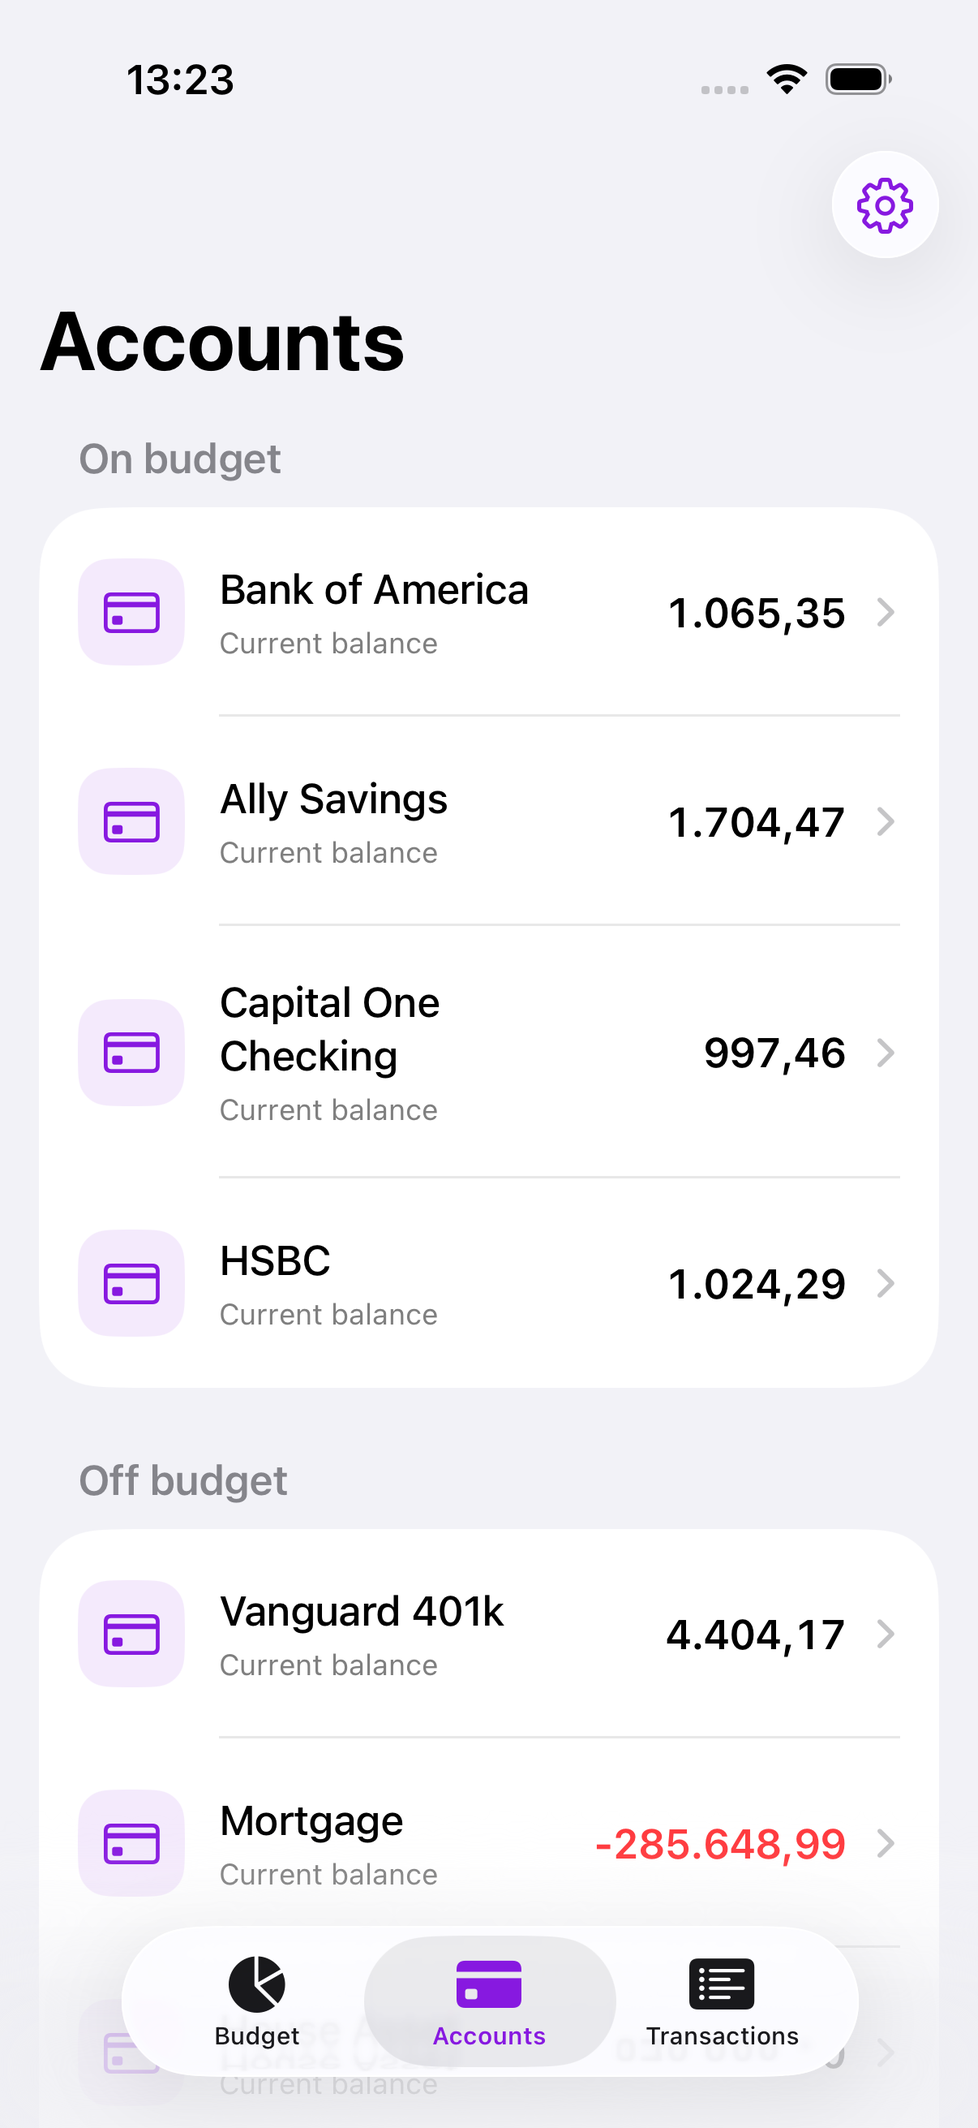
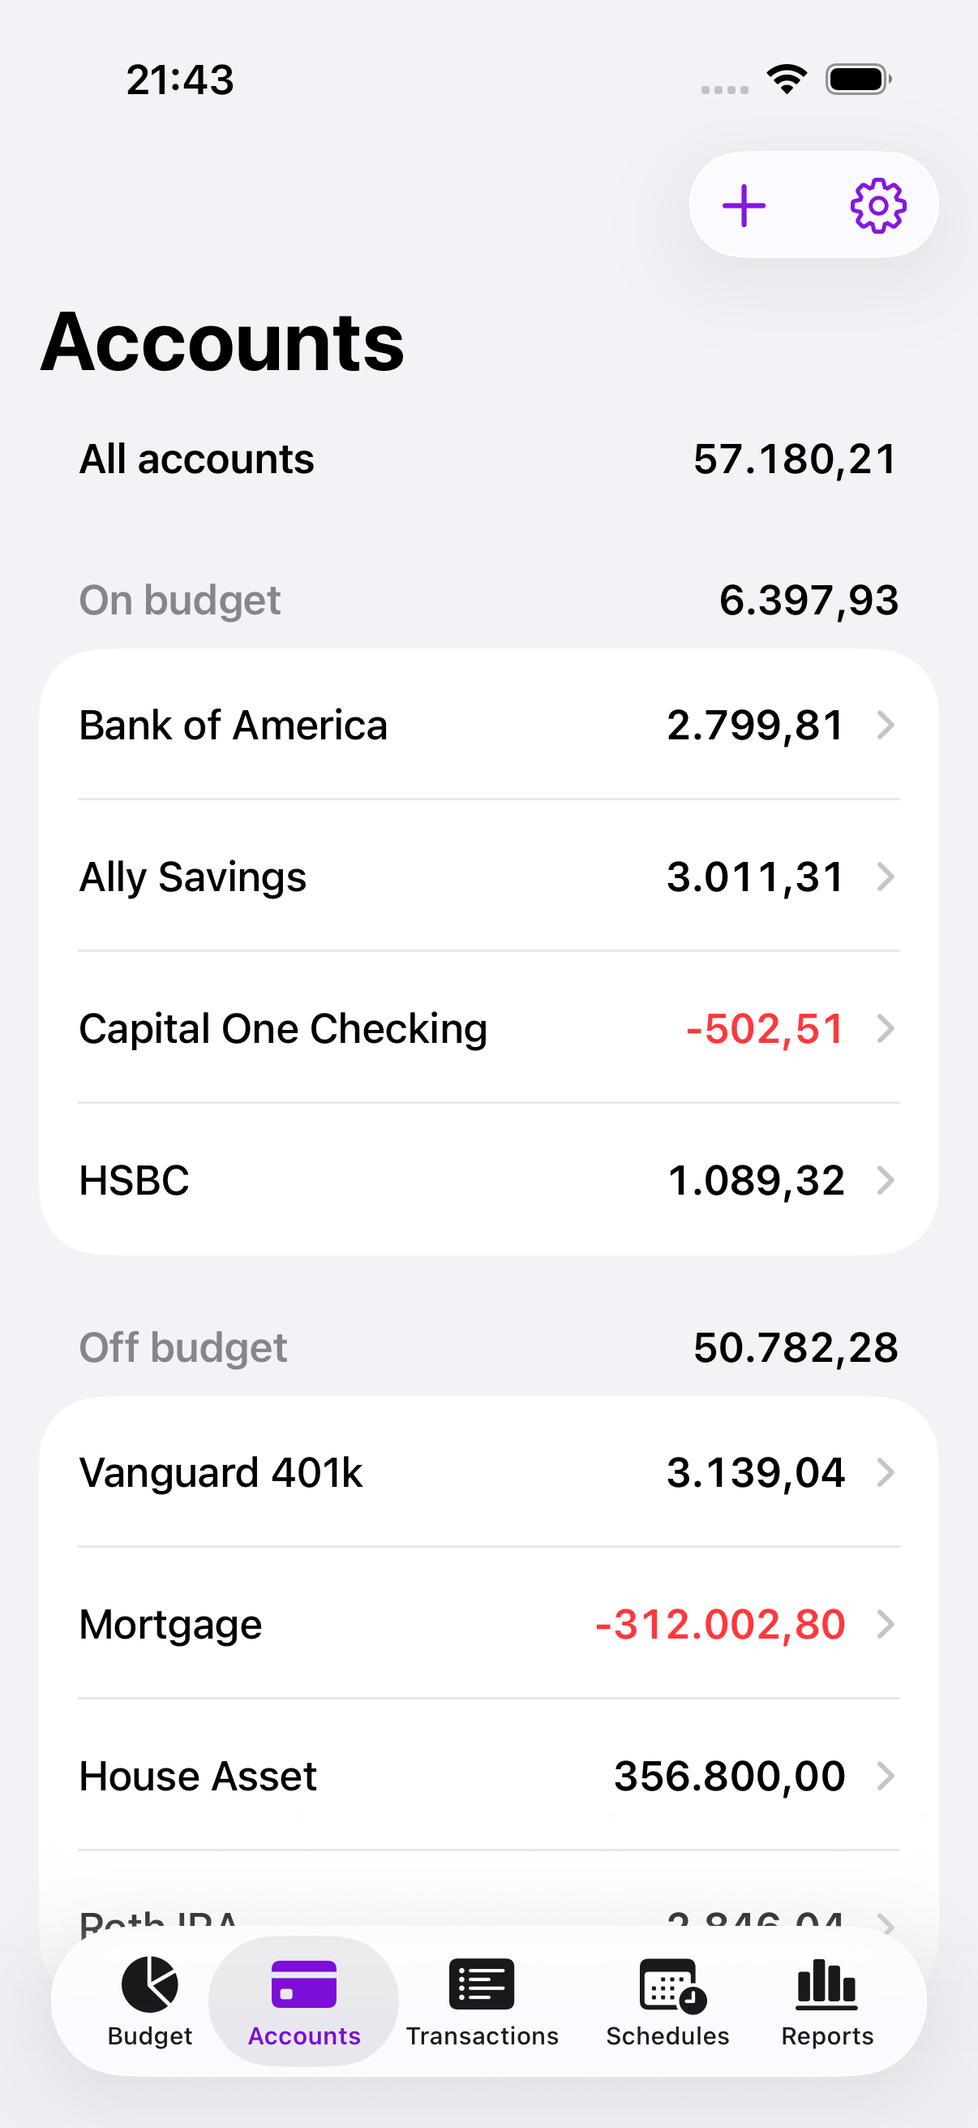
Calm the register, total the accounts, and lift purple in dark mode
- Registers and other transaction lists show spending in the text color
  and income in green, as Actual's mobile register does; red is left for
  overspending. Upcoming amounts are secondary.
- Drop the leading direction badge; transfers and splits keep a small
  glyph beside the category. The cleared toggle is a smaller glyph,
  green when cleared.
- Account rows drop the icon tile and "Current balance" filler; section
  headers show totals, with All accounts first, as in Actual.
- Actual purple uses Actual's dark-theme purple400 in dark appearance.

Claude-Session: https://claude.ai/code/session_01JMHr96GVFA3p8ctKBKr87m

diff --git a/Native/Views/TransactionsView.swift b/Native/Views/TransactionsView.swift
@@ -185,10 +185,6 @@ struct ScheduledTransactionRow: View {
     let currency: String
     var body: some View {
         HStack(alignment: .center, spacing: 12) {
-            Image(systemName: "calendar")
-                .font(.subheadline.weight(.semibold)).foregroundStyle(.secondary)
-                .frame(width: 36, height: 36)
-                .background(ActualTheme.background, in: Circle())
             VStack(alignment: .leading, spacing: 5) {
                 Text(scheduled.title).font(.body.weight(.medium)).foregroundStyle(.primary)
                 HStack(spacing: 6) {
@@ -198,8 +194,9 @@ struct ScheduledTransactionRow: View {
                 }.font(.caption).foregroundStyle(.secondary)
             }
             Spacer(minLength: 8)
-            MoneyText(value: scheduled.amount, currency: currency, positiveColor: .green)
-                .font(.body.weight(.semibold)).opacity(0.7)
+            // Actual's register shows previews in light text.
+            MoneyText(value: scheduled.amount, currency: currency, positiveColor: .green, negativeColor: .secondary)
+                .font(.body.weight(.semibold))
         }.padding(.vertical, 6).contentShape(Rectangle())
             .accessibilityElement(children: .combine)
             .accessibilityHint("Post or skip this scheduled transaction")
@@ -211,19 +208,19 @@ struct TransactionRow: View {
     let currency: String
     var body: some View {
         HStack(alignment: .center, spacing: 12) {
-            Image(systemName: transaction.isTransfer ? "arrow.left.arrow.right" : transaction.isParent ? "square.split.2x2" : transaction.amount < 0 ? "arrow.up.right" : "arrow.down.left")
-                .font(.subheadline.weight(.semibold))
-                .foregroundStyle(transaction.amount < 0 ? Color.secondary : ActualTheme.purple)
-                .frame(width: 36, height: 36)
-                .background(ActualTheme.background, in: Circle())
             VStack(alignment: .leading, spacing: 5) {
                 Text(transaction.title).font(.body.weight(.medium)).foregroundStyle(.primary)
-                Text(transaction.canEdit ? transaction.detail : "\(transaction.detail) · view only")
-                    .font(.caption).foregroundStyle(.secondary)
+                // As in Actual's mobile register, transfers and splits are marked beside the category.
+                // The title and detail already say so to VoiceOver.
+                HStack(spacing: 4) {
+                    if transaction.isTransfer { Image(systemName: "arrow.left.arrow.right").accessibilityHidden(true) }
+                    else if transaction.isParent { Image(systemName: "square.split.2x2").accessibilityHidden(true) }
+                    Text(transaction.canEdit ? transaction.detail : "\(transaction.detail) · view only")
+                }.font(.caption).foregroundStyle(.secondary)
                 if let notes = transaction.notes, !notes.isEmpty { NotesText(notes: notes).font(.caption).foregroundStyle(.secondary).lineLimit(1) }
             }
             Spacer(minLength: 8)
-            MoneyText(value: transaction.amount, currency: currency, positiveColor: .green).font(.body.weight(.semibold))
+            MoneyText.transaction(transaction.amount, currency: currency).font(.body.weight(.semibold))
         }.padding(.vertical, 6).contentShape(Rectangle())
             .accessibilityElement(children: .combine)
     }

diff --git a/Native/Views/AccountsView.swift b/Native/Views/AccountsView.swift
@@ -12,6 +12,12 @@ struct AccountsView: View {
                     if overview.accounts.isEmpty {
                         ContentUnavailableView("No accounts yet", systemImage: "creditcard", description: Text("Add an account with + to track its balance and transactions."))
                     }
+                    else {
+                        // Actual's mobile accounts page leads with the total of all open accounts.
+                        Section {} header: {
+                            totalHeader("All accounts", accounts: overview.openAccounts).font(.headline).foregroundStyle(.primary)
+                        }
+                    }
                     accountSection("On budget", accounts: overview.accounts.filter { !$0.offbudget && !$0.closed })
                     accountSection("Off budget", accounts: overview.accounts.filter { $0.offbudget && !$0.closed })
                     accountSection("Closed", accounts: overview.accounts.filter(\.closed))
@@ -32,16 +38,12 @@ struct AccountsView: View {
 
     @ViewBuilder private func accountSection(_ title: String, accounts: [Account]) -> some View {
         if !accounts.isEmpty {
-            Section(title) {
+            Section {
                 ForEach(accounts) { account in
                     NavigationLink {
                         TransactionsView(accountID: account.id, accountName: account.name, embedsNavigation: false)
                     } label: {
                         HStack(spacing: 14) {
-                            Image(systemName: account.closed ? "archivebox" : "creditcard")
-                                .font(.title3).foregroundStyle(ActualTheme.purple)
-                                .frame(width: 44, height: 44)
-                                .background(ActualTheme.purple.opacity(0.09), in: RoundedRectangle(cornerRadius: 13))
                             VStack(alignment: .leading, spacing: 5) {
                                 Text(account.name).font(.body.weight(.medium))
                                 if model.syncingAccountIDs.contains(account.id) {
@@ -56,8 +58,6 @@ struct AccountsView: View {
                                     } else {
                                         Text("Bank connected · pull to refresh").font(.caption).foregroundStyle(.secondary)
                                     }
-                                } else {
-                                    Text(account.closed ? "Closed account" : "Current balance").font(.caption).foregroundStyle(.secondary)
                                 }
                             }
                             Spacer(minLength: 8)
@@ -65,7 +65,18 @@ struct AccountsView: View {
                         }.padding(.vertical, 6)
                     }
                 }
+            } header: {
+                totalHeader(title, accounts: accounts)
             }
+        }
+    }
+
+    /// A section title with its accounts' total balance, as Actual's mobile accounts page shows.
+    private func totalHeader(_ title: String, accounts: [Account]) -> some View {
+        HStack {
+            Text(title)
+            Spacer()
+            MoneyText(value: accounts.reduce(0) { $0 + $1.balance }, currency: model.currency)
         }
     }
 }

diff --git a/Native/Theme.swift b/Native/Theme.swift
@@ -1,7 +1,12 @@
 import SwiftUI
 
 enum ActualTheme {
-    static let purple = Color(red: 135 / 255, green: 25 / 255, blue: 224 / 255)
+    /// Actual's purple, lifted in dark appearance as Actual's dark theme does (purple400).
+    static let purple = Color(uiColor: UIColor { traits in
+        traits.userInterfaceStyle == .dark
+            ? UIColor(red: 148 / 255, green: 70 / 255, blue: 237 / 255, alpha: 1)
+            : UIColor(red: 135 / 255, green: 25 / 255, blue: 224 / 255, alpha: 1)
+    })
     static let navy = Color(red: 29 / 255, green: 35 / 255, blue: 66 / 255)
     static let background = Color(uiColor: .systemGroupedBackground)
     static let surface = Color(uiColor: .secondarySystemGroupedBackground)
@@ -12,10 +17,19 @@ struct MoneyText: View {
     var currency = ""
     /// Transaction amounts show income in green.
     var positiveColor = Color.primary
+    var negativeColor = Color.red
     var body: some View {
         Text(Money.formatted(value, currency: currency))
             .monospacedDigit()
-            .foregroundStyle(value < 0 ? Color.red : value > 0 ? positiveColor : Color.primary)
+            .foregroundStyle(value < 0 ? negativeColor : value > 0 ? positiveColor : Color.primary)
+    }
+}
+
+extension MoneyText {
+    /// A transaction amount as Actual's registers show it: income in green, spending in the
+    /// text color, so red stays reserved for overspending.
+    static func transaction(_ value: Int, currency: String) -> MoneyText {
+        MoneyText(value: value, currency: currency, positiveColor: .green, negativeColor: .primary)
     }
 }
 

diff --git a/Native/Views/ReconcileView.swift b/Native/Views/ReconcileView.swift
@@ -110,8 +110,9 @@ struct ClearedToggle: View {
             }
         } label: {
             Image(systemName: transaction.isReconciled ? "lock.fill" : transaction.cleared ? "checkmark.circle.fill" : "circle")
-                .font(.title2)
-                .foregroundStyle(transaction.isReconciled || transaction.cleared ? ActualTheme.purple : Color.secondary)
+                .font(.body)
+                // Actual's register marks cleared and reconciled transactions in green.
+                .foregroundStyle(transaction.isReconciled || transaction.cleared ? Color.green : Color.secondary)
                 .frame(width: 44, height: 44).contentShape(Rectangle())
         }
         .buttonStyle(.borderless)

diff --git a/Native/Views/CategoryTransactionsView.swift b/Native/Views/CategoryTransactionsView.swift
@@ -65,7 +65,7 @@ struct CategoryTransactionsView: View {
                 }
             }
             Spacer(minLength: 8)
-            MoneyText(value: entry.amount, currency: model.currency, positiveColor: .green).font(.body.weight(.semibold))
+            MoneyText.transaction(entry.amount, currency: model.currency).font(.body.weight(.semibold))
         }.padding(.vertical, 4).contentShape(Rectangle())
             .accessibilityElement(children: .combine)
     }

diff --git a/Native/Views/ImportView.swift b/Native/Views/ImportView.swift
@@ -130,7 +130,7 @@ struct ImportSheet: View {
                 }.font(.caption).foregroundStyle(.secondary)
             }
             Spacer()
-            MoneyText(value: row.amount, currency: model.currency, positiveColor: .green)
+            MoneyText.transaction(row.amount, currency: model.currency)
         }
         .contentShape(Rectangle())
         .accessibilityElement(children: .combine)

diff --git a/Native/Views/SchedulesView.swift b/Native/Views/SchedulesView.swift
@@ -489,7 +489,7 @@ private struct ScheduleTransactionsView: View {
                     .font(.caption).foregroundStyle(.secondary)
             }
             Spacer()
-            MoneyText(value: item.amount, currency: model.currency, positiveColor: .green)
+            MoneyText.transaction(item.amount, currency: model.currency)
         }
     }
 

diff --git a/README.md b/README.md
@@ -8,7 +8,7 @@ This is a development build, with no App Store submission or distribution signin
 
 - Open a real demo or download a budget from your Actual server.
 - Delete a budget from this device: touch and hold it in the budget list. As with Actual's **Delete file locally**, a server budget stays on your server and can be downloaded again, but changes not yet synced are lost. A budget that is not on a server is deleted permanently. Deleting a budget from the server remains in Actual web/desktop.
-- Browse monthly envelope or tracking budgets, adjust category allocations, and see account balances, including future-dated transactions as in Actual. Tracking budgets show saved or projected savings instead of an amount to budget.
+- Browse monthly envelope or tracking budgets, adjust category allocations, and see account balances, including future-dated transactions as in Actual. As on Actual's mobile Accounts page, totals are shown for all open accounts and for the on-budget, off-budget, and closed sections. Tracking budgets show saved or projected savings instead of an amount to budget.
 - Move money as Actual's budget menus do. The **Month actions** menu copies last month's budget or sets every category to zero or its 3-month, 6-month, or yearly average, after confirmation. A category's budget editor copies its own last-month amount or average, and turns overspending rollover on or off from that month onward. In envelope budgets it also transfers a positive balance to another category or back to To Budget, and covers overspending from another category or To Budget. Tap the summary card to see how To Budget adds up and to move it to a category, hold it for next month, cover an overbudgeted month from a category, or release a hold. Banners list overspent categories to cover and warn when you have budgeted more than is available. As in Actual, each move is recorded in the month's notes.
 - Each budget row shows a category's budgeted amount and balance on one line, with overspent balances in red. As in Actual's mobile budget, each group's header shows its total budgeted and balance. Like Actual, these totals include the group's hidden categories. Quick filters show only **Overspent** categories, those with a negative balance, or **Underfunded** ones, whose targets ask for more than they have. Underfunded appears once applied targets set goals. Each filter shows how many categories it matches.
 - Set category targets, which Actual calls budget automations or goal templates. In a category's budget editor, choose **Add Targets**. Every kind Actual's editor offers is available: fixed amount, cover schedule, save by date, % of income, from history, refill to cap, whatever is left, balance cap, and long-term goal. As you edit, the app shows what the targets would budget this month and flags anything to fix before saving, using Actual's own checks. Targets are saved in Actual's format, so Actual web/desktop shows and applies them too. Targets written as `#template` lines in a category's notes appear in the editor; saving moves them to the editor, as in Actual, and leaves the notes unchanged. Notes lines Actual cannot read must be fixed in Actual first.
@@ -16,7 +16,7 @@ This is a development build, with no App Store submission or distribution signin
 - See your reports as Actual's mobile web app shows them: the budget's report dashboards, read-only, in one column. Net worth, cash flow, spending analysis, summary, calendar, and text widgets are drawn natively with their saved filters and ranges; these are all the kinds in Actual's default dashboard. Open a report to see its detail and try another range, or for spending analysis, another comparison; these choices are not saved. Choosing a day in a calendar lists its transactions. Custom reports, age of money, crossover point, and experimental widgets whose feature flag is on show a note to open them in Actual web or desktop.
 - Pull to refresh Accounts to fetch bank transactions for all linked, open accounts, or refresh one account from its transaction register. Shows bank refresh status and account-specific errors; existing rules and import preferences apply.
 - Registers open with the newest transactions and add older ones as you scroll, as Actual pages them, so budgets with years of history open quickly. Search covers every transaction.
-- Search transactions; add, edit, categorize, clear, and delete ordinary transactions. Tap a transaction's checkmark to clear or unclear it; income amounts are green. A new transaction opens with its amount ready for entry, and choosing a date closes the calendar. Payees and categories are chosen from searchable lists, and typing a new name adds a payee. As in Actual's mobile app, rules fill in empty fields of new transactions and may set the payee or extend notes, but never replace a category or other value you entered. A typed payee name reuses an existing payee regardless of capitalization.
+- Search transactions; add, edit, categorize, clear, and delete ordinary transactions. Tap a transaction's checkmark to clear or unclear it; it turns green when cleared. As in Actual's mobile register, income amounts are green and spending uses the normal text color, leaving red for overspending; transfers and splits are marked beside the category. A new transaction opens with its amount ready for entry, and choosing a date closes the calendar. Payees and categories are chosen from searchable lists, and typing a new name adds a payee. As in Actual's mobile app, rules fill in empty fields of new transactions and may set the payee or extend notes, but never replace a category or other value you entered. A typed payee name reuses an existing payee regardless of capitalization.
 - Split a transaction between categories, as in Actual's mobile editor: choose **Split Transaction**, then give each part an amount, category, and notes. The editor shows the amount left, and a split saves only once its parts add up to the total. Each part uses the transaction's payee unless you give it its own payee or make it a transfer to another account; a transfer part adds and updates its other side, as in Actual. Edit or delete parts later; removing every part makes it an ordinary transaction again, and deleting a split deletes its parts.
 - Manage categories and accounts as Actual's mobile menus do. From the **Month actions** menu, add a category group, edit the month's notes, or show hidden categories. Tap a group's name to rename it, edit its notes, hide it, add categories, move it up or down, or delete it, as in Actual's mobile budget. A category's budget editor (**Edit Category**, or touch and hold its row) renames it, edits its notes, hides it, moves it within or between groups, or deletes it. Income categories are listed below expenses. As in Actual, deleting a category or group that has transactions or budgets asks which category receives them. On Accounts, **+** adds an account without a bank connection, on or off budget, with a starting balance. An account's menu renames it, edits its notes, and closes or reopens it: an account with no transactions is deleted, a balance moves to another account (with a category when it leaves your budget), and **Force Close** deletes an account with all its transactions. Closing a bank-linked account unlinks it, as in Actual.
 - Manage schedules for bills and income on the **Schedules** tab, as Actual's schedules pages do. Each shows its next date, amount, and status: upcoming, due, missed, paid, or completed. Add or edit one with a name, payee, account, and an exact, approximate, or between amount, on one date or repeating daily, weekly, monthly, or yearly, every so many periods, until a date or a number of times, optionally moved off weekends. The editor previews the next dates, and a schedule can add its transactions automatically. Touch and hold a schedule to post its transaction for the next date or today, skip its next date, complete or restart it, or delete it. Monthly schedules can repeat on specific days, such as the 1st and 15th or the last Friday. A schedule lists its linked transactions and unlinked ones that match it, to link or unlink them. The Schedules tab sets how far ahead registers list upcoming transactions, as Actual's setting does. As in Actual's registers, upcoming scheduled transactions are listed first, with their status; tap one to post it for its date or today, skip its date, or complete a one-time schedule.

diff --git a/docs/validation.md b/docs/validation.md
@@ -331,3 +331,9 @@ The compact budget screen and quick filters from `origin/main` were merged with 
 On a new iPhone 17 Pro / iOS 27.0 simulator, every demo UI test passed, including the new `testDemoTagsAndSpecificDays`, with the navigation test run first on its own. After the tests, the app's App Group container held the widget snapshot, with To Budget and the four categories most in need in the budget's number format. The widget extension builds and is embedded in the app.
 
 Not verified end to end: the widget on a home screen, background refresh as scheduled by iOS, Shortcuts and Siri running the intents, importing through the Files picker, and signing the App Group on a device.
+
+## Design pass: register, accounts, and dark accent (2026-09-29)
+
+Changes from a design review, checked against Actual's `DESIGN.md` and its mobile components at the pinned revision. Registers, category transactions, schedule links, and the import preview show spending in the text color and income in green, as `TransactionListItem.tsx` does; upcoming amounts are secondary. The leading direction badge is gone; transfers and splits keep a small glyph beside the category. The cleared toggle is a body-size glyph, green when cleared, as Actual marks it. Account rows drop the icon tile and the "Current balance" filler, and section headers show totals, with **All accounts** for open accounts, matching `AccountsPage.tsx`. `ActualTheme.purple` and the asset accent use Actual's dark-theme `purple400` (#9446ED) in dark appearance.
+
+The app built for an iPhone 17 Pro / iOS 26.5 simulator, and `testDemoBudgetNavigationAndTransactionEditor` (run first on a fresh install) and `testDemoReconciliation` passed. Screenshots of Accounts and Transactions in light, and Budget in dark, were inspected; the account totals add up to the Net Worth report's total. `docs/screenshots/03-accounts.png` and `04-transactions.png` show the new layout.
